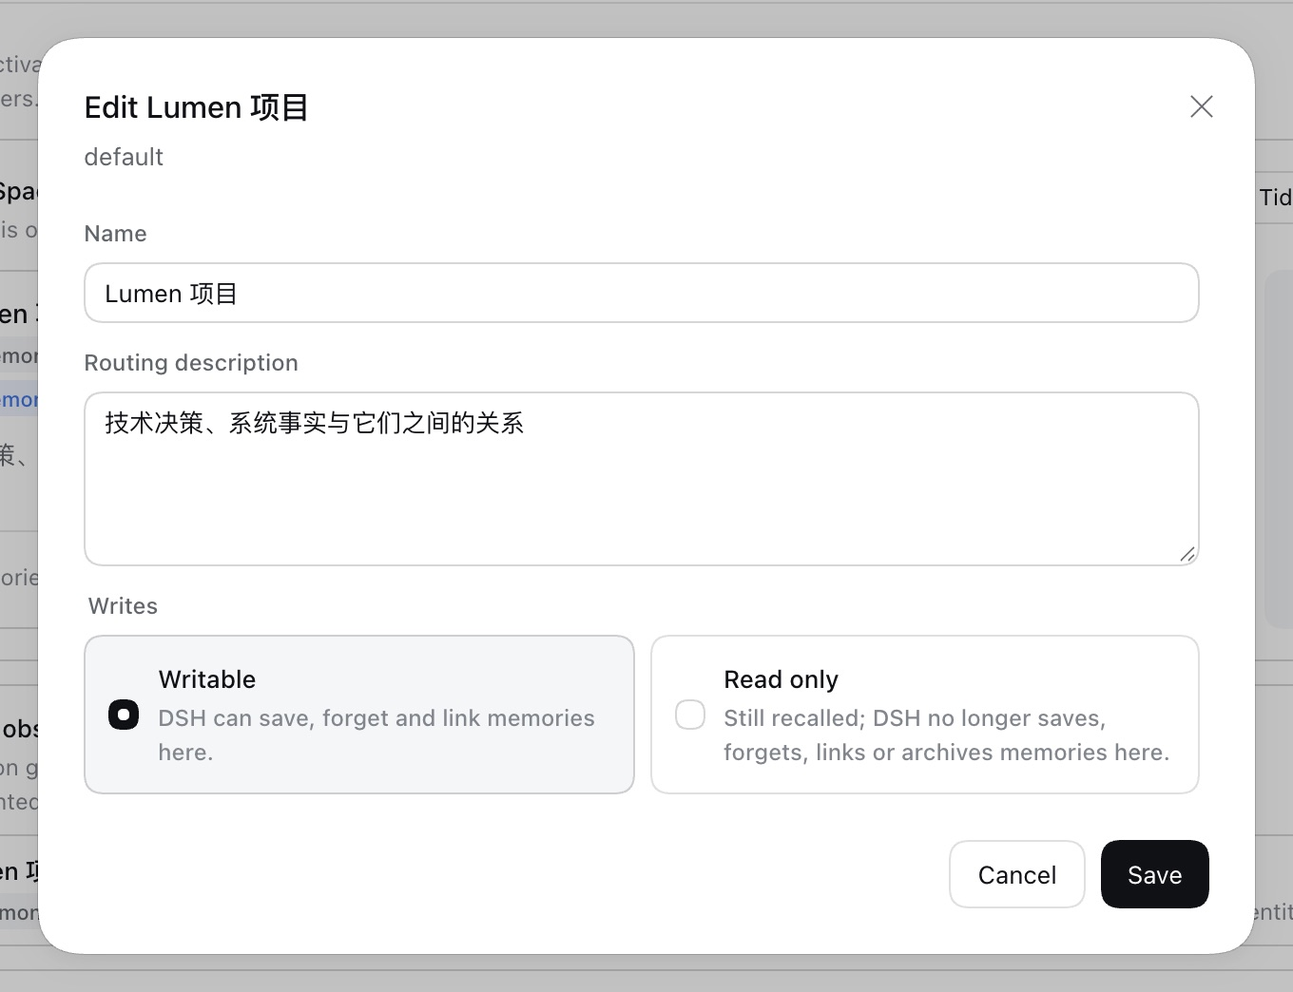
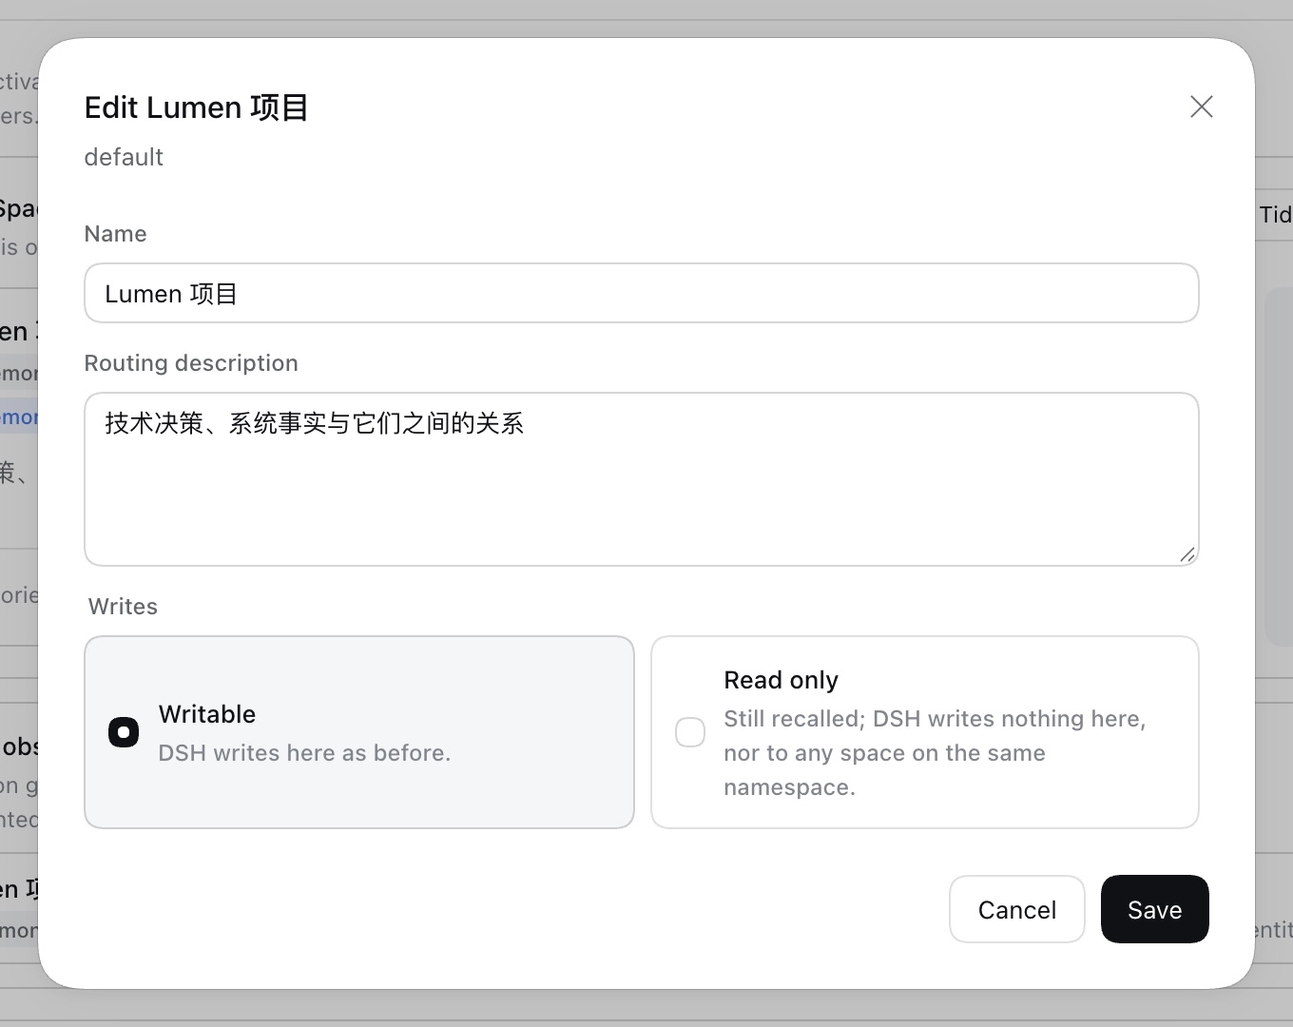
docs(pr-assets): update the read-only spaces record after review (#434)
Describes the write policy keyed by where writes land, Writable on a
space's own place, the visible fail-closed state with its reset, the
rechecks before merge imports and vector fills, and effective
capabilities. Points at the committed live Hindsight harness, records
its re-run on 3cd04d74, and replaces the branch screens captured again
after the copy and placement changes.

diff --git a/docs/pr-assets/issue-434-space-write-policy/README.md b/docs/pr-assets/issue-434-space-write-policy/README.md
@@ -15,13 +15,25 @@ Both banks use Hindsight's `chunks` extraction mode, which needs no LLM; the lab
 
 ## What changed
 
-- **An explicit choice.** The space's **Edit** dialog has **Writes**: **Writable** ("DSH can save, forget and link memories here.") or **Read only** ("Still recalled; DSH no longer saves, forgets, links or archives memories here."). The card of a read-only space shows **Read only**. The same choice is the Source management operation `body-write-policy`, `{ memoryBodyId, policy: 'writable' | 'read-only' }`, which needs confirmation as every management mutation does. The page client calls it through `setWritePolicy`, and no Agent tool reaches it.
-- **Refused before the Provider is called.** The Memory Spaces service checks the policy on disk when a write is dispatched, not when a View was composed. It checks for remember, each destination and each item of a batch, forget, link, merging into a space, deleting a Mnemon Native Store and filling its vectors. Every path the Agent, the page, the task Agent and the Host take ends there. A refusal names the space and makes no Provider call.
-- **The namespace, not the card.** A read-only entry names the namespace by its externalId, or by the settings that name it, with defaults filled in. A Mnemon Native Store is named by its id. So a space made by hand for the same bank, a reconnect, a rediscovery, switching a space on and a wildcard read are all read only too. A space whose settings move to another namespace takes that namespace's policy.
-- **No fallback.** A write that names no space goes to the one active writable space. With none, or several, it asks for one. The Source's facts offer no link or forget through read-only spaces, and its `archivableCount` leaves them out. The write scope given to Host writers leaves them out, the task Agent's target check refuses them, and its tool guard keeps the writer off them. Save to memory does not list them. With every space read only, Runtime capacity and Document archival take the local-archive path.
-- **What the model sees.** The directory a model inspects marks a read-only space `writePolicy: 'read-only'` and gives it `remember`, `link` and `forget` as `false`.
-- **Where it is kept.** The policy is kept in `state/memory-provider-write-policy.json`, beside the Provider connections. It is kept in its own file because older builds rewrite the space registry and drop fields they do not know. The file exists only while some space is read only. A file that cannot be read makes every space read only until it is fixed or removed, and recall keeps working.
-- **Spaces without the policy are unchanged.** No file is written, no field is added, and the revision encoding is the same. The errors for spaces without a policy are the same as before.
+- **An explicit choice.** The space's **Edit** dialog has **Writes**, below the Provider settings it applies to. **Writable** says "DSH writes here as before." **Read only** says "Still recalled; DSH writes nothing here, nor to any space on the same namespace." The card of a read-only space shows **Read only**. A change of the choice alone saves only the choice. When the settings change too, a choice that cannot be saved after them is reported as such. The same choice is the Source management operation `body-write-policy`, `{ memoryBodyId, policy: 'writable' | 'read-only' }`, which needs confirmation as every management mutation does. The page client calls it through `setWritePolicy`, and no Agent tool reaches it.
+- **Refused before the Provider is called.** The Memory Spaces service checks the policy on disk when a write is dispatched, not when a View was composed. It checks for remember, each destination and each item of a batch, forget, link, merging into a space, deleting a Mnemon Native Store and filling its vectors. A merge checks again right before its import, and a vector fill before each step. Every path the Agent, the page, the task Agent and the Host take ends there. A refusal names the space and makes no Provider call.
+- **Where writes land, not the card.** Each space has a key: the Provider type, then what the Provider names as the place its writes land, with its runtime defaults resolved. Built-in Providers give it through a new optional adapter method, `namespaceKey`:
+  - Hindsight: endpoint and bank.
+  - Mem0: endpoint, user and agent, a wildcard writing as `dsh-user` or `dsh`.
+  - Honcho: endpoint, workspace and both peers.
+  - RetainDB: endpoint, project and user.
+  - Supermemory: endpoint and container tag.
+  - OpenViking: endpoint, account and memory root. The actor peer is only a header and is left out.
+  - Holographic: the resolved store file.
+  - ByteRover: the resolved folder.
+  - Mnemon Native: its Store.
+
+  A Provider without the method is keyed by its service location alone, which fails closed. Two keys are the same place when one extends the other, so an OpenViking root whose owner only the server knows covers every root of its account. A space made by hand, one the persistence strategy creates, a second Provider instance on the same server, a reconnect, a rediscovery and switching a space on all gain no write.
+- **Writable applies to the space's own place.** It removes only that key, never through a wildcard or an old externalId. A space that writes where another read-only space does stays read only and says so.
+- **No fallback.** A write that names no space goes to the one active writable space. With none, or several, it asks for one. The Source's facts offer no link or forget through read-only spaces, and its `archivableCount` leaves them out. The write scope given to Host writers leaves them out, the task Agent's target check refuses them, and its tool guard keeps the writer off them. Save to memory does not list them, in a conversation or on the Memory Spaces page. With every space read only, Runtime capacity and Document archival take the local-archive path.
+- **What the model and the page see.** The directory a model inspects marks a read-only space `writePolicy: 'read-only'` and gives it `remember`, `link` and `forget` as `false`. Recall evidence and page items report the same, so no Forget is offered on its memories.
+- **Where it is kept.** The policy is kept per data directory and per Memory Spaces Source instance in `state/memory-provider-write-policy.json`, beside the Provider connections. It is a file of its own because older builds rewrite the space registry and drop fields they do not know. At most 1,000 places can be read only; past that, read only is refused rather than dropping the oldest. A file, or an entry, that cannot be read makes every space read only and recall keeps working. The directory then carries `writePolicyProblem`, a write naming no space says why, and the page shows a banner with **Reset write choices** behind a confirmation.
+- **Spaces without the policy are unchanged.** No file is written, no field is added, the revision encoding is the same, and the errors are the same as before. A Mnemon Native recall still records its reads in the Store, as everywhere.
 
 ## Result on real Hindsight
 
@@ -45,6 +57,8 @@ The same scenario ran on main and on the branch, against the same two banks, the
 | Memories in `wp434-dsh`, before → after | 4 → 5 | 2 → 4 |
 
 On the branch, each receipt from the DSH bank says `queued`, with completion `accepted`, never `committed`. Hindsight extracts in the background, and the policy does not change how such a receipt reads. `wp434-dsh` held two memories before the branch run. They came from an earlier run of the same branch scenario, whose recall ran before Hindsight had stored its writes; that run is not recorded.
+
+The live scenario is committed as `plugins/dsh-mnemon-source-memory-spaces/tests/hindsight-write-policy.live.spec.ts`. It is opt-in with `MNEMON_WRITE_POLICY_HINDSIGHT`, and its counting proxy runs inside the test. The record above was made at `e55da9e4`. After the review's fixes, the harness ran again on `3cd04d74`. The four writes aimed at the legacy bank were refused with no Hindsight request. The two writes to the DSH bank each made one `POST /memories`, with completion `accepted`. Recall read both banks. `wp434-legacy` held 4 memories before and 4 after. `wp434-dsh` went from 5 to 7.
 
 ## In the WebUI
 
@@ -85,12 +99,13 @@ On the branch, each receipt from the DSH bank says `queued`, with completion `ac
 
 ## Tests
 
-- `plugins/dsh-mnemon-source-memory-spaces/tests/write-policy.spec.ts` drives the real Source with a counting bank Provider. One test covers each write path: View remember, forget and link, and management remember, a batch, forget and link. Further tests cover these cases: a legacy id named explicitly, while the space is inactive and after it is switched on; a space made by hand for the same bank; a space whose settings move to that bank; a disconnect followed by a new mount; a policy changed after a View was composed; the default destination; no fallback; and the facts and write scope. Over Mnemon Native, the tests cover these cases: no Store-changing command for remember, a batch, forget, link, merge, vector fill or delete; a batch stopped at a destination that turned read only; an unreadable or unsupported file; a restart and another data directory; and no change without a policy.
-- `write-policy-page.spec.tsx` renders the real page against the real Source. It covers the choice, the badge, changing back, and the page's own Save to memory dialog, which offers no read-only space.
+- `plugins/dsh-mnemon-source-memory-spaces/tests/write-policy.spec.ts` drives the real Source with a counting bank Provider. One test covers each write path: View remember, forget and link, and management remember, a batch, forget and link. Further tests cover these cases: a legacy id named explicitly, while the space is inactive and after it is switched on; a space made by hand for the same bank; a space whose settings move to that bank; a disconnect followed by a new mount; a policy changed after a View was composed; the default destination; no fallback; the facts and write scope; and recall evidence and page items that report what a read-only space takes. The review's cases are tests of their own: Mem0 users and agents with wildcards, Holographic spaces made by hand or by the persistence strategy on one store, blank and relative ByteRover folders, OpenViking peers, trailing slashes and owners only the server knows, a Hindsight space moved to another bank, a second Provider instance on the same server, and the 1,000-place limit. Over Mnemon Native, the tests cover these cases: no command that writes memories or vectors for remember, a batch, forget, link, merge, vector fill or delete; a merge target and a vector fill that turn read only midway; a batch stopped at a destination that turned read only; an unreadable or unsupported file, or one with an entry it cannot read, said in the directory and a write naming no space, and reset; a restart and another data directory; and no change without a policy.
+- `write-policy-page.spec.tsx` renders the real page against the real Source. It covers the choice, a change of the choice alone saving only it, the badge, changing back, the page's own Save to memory dialog, which offers no read-only space, and the banner and confirmed reset for a file that cannot be read.
+- `hindsight-write-policy.live.spec.ts` is the live scenario above, opt-in with `MNEMON_WRITE_POLICY_HINDSIGHT`.
 - Root tests cover the rest. The layer-combination matrix gains a read-only space for MEMORY.md and Document archival through the Agent tool, the web page and the Host's own path, and for what the View offers. The task Agent's target check and tool guard are tested, the Save to memory place list leaves read-only spaces out, and **Fill in** is not offered for a read-only Native space.
 
 ```text
-pnpm --filter dsh-mnemon-source-memory-spaces exec vitest run   # 307 passed, 2 skipped
+pnpm --filter dsh-mnemon-source-memory-spaces exec vitest run   # 315 passed, 3 skipped
 pnpm exec vitest run --dir tests                                # 2,176 passed, 7 skipped
 pnpm run typecheck && pnpm --filter dsh-mnemon-source-memory-spaces run typecheck
 pnpm --filter dsh-mnemon-source-memory-spaces run build && pnpm run build

diff --git a/docs/pr-assets/issue-434-space-write-policy/README.zh-CN.md b/docs/pr-assets/issue-434-space-write-policy/README.zh-CN.md
@@ -15,13 +15,25 @@ Provider 使用 `provider-lab/` 中的 Hindsight（官方 GHCR standalone 镜像
 
 ## 改动
 
-- **明确的选择。** 空间的**编辑**对话框中新增**写入**：**可写入**（“DSH 可以在这里存入、遗忘和链接记忆。”）或**只读**（“照常召回；DSH 不再在这里存入、遗忘、链接或归档记忆。”）。只读空间的卡片上会显示**只读**。同一个选择也是 Source 管理操作 `body-write-policy`，参数为 `{ memoryBodyId, policy: 'writable' | 'read-only' }`，与所有管理变更一样需要确认。页面客户端通过 `setWritePolicy` 调用它，Agent 工具无法调用它。
-- **在调用 Provider 之前拒绝。** 记忆空间服务在写入真正发出时读取磁盘上的设置，而不是在组成 View 时读取。检查覆盖存入、批量写入中的每个目标与每一条、遗忘、链接、合并进空间、删除 Mnemon Native Store 与补齐向量。Agent、页面、任务 Agent 与 Host 的每条写入路径最终都经过这里。被拒绝的写入会写明是哪个空间，且不会调用 Provider。
-- **按命名空间，而不是按卡片。** 只读条目按 externalId 标识命名空间，或按标识命名空间的设置（已填入默认值）标识；Mnemon Native Store 按其 id 标识。因此，为同一个 bank 手动创建的空间、重新连接、重新发现、打开开关，以及通配读取，都同样只读。设置改为指向另一个命名空间的空间，采用那个命名空间的设置。
-- **不退回。** 未指定空间的写入进入唯一一个已激活且可写的空间；一个都没有或不止一个时，会要求指明空间。Source 的 facts 不再为只读空间提供链接与遗忘，`archivableCount` 也不计入它们。交给 Host 写入方的写入范围不包含它们，任务 Agent 的目标检查拒绝它们，工具守卫让写入方不碰它们；“存入记忆”也不列出它们。所有空间都只读时，运行时记忆容量维护与文档归档改走本地归档。
-- **模型看到的内容。** 模型查看的空间目录中，只读空间标为 `writePolicy: 'read-only'`，其 `remember`、`link`、`forget` 显示为 `false`。
-- **保存位置。** 设置保存在 `state/memory-provider-write-policy.json`，与 Provider 连接放在一起。单独存一个文件，是因为旧版本会重写空间注册表，并丢掉它们不认识的字段。只有存在只读空间时才有这个文件。文件无法读取时，所有空间都按只读处理，直到修复或删除该文件；召回照常。
-- **没有设置的空间不受影响。** 不写文件，不加字段，revision 编码不变；没有设置的空间，报错与以前相同。
+- **明确的选择。** 空间的**编辑**对话框中新增**写入**，位于它所作用的 Provider 设置下方：**可写入**（“DSH 照常写入这里。”）或**只读**（“照常召回；DSH 不再写入这里，也不写入同一命名空间的其他空间。”）。只读空间的卡片上会显示**只读**。只改动这一选择时，只保存这一选择；与其他设置一起改动时，如果设置已保存而选择没能保存，页面会明确说明。同一个选择也是 Source 管理操作 `body-write-policy`，参数为 `{ memoryBodyId, policy: 'writable' | 'read-only' }`，与所有管理变更一样需要确认。页面客户端通过 `setWritePolicy` 调用它，Agent 工具无法调用它。
+- **在调用 Provider 之前拒绝。** 记忆空间服务在写入真正发出时读取磁盘上的设置，而不是在组成 View 时读取。检查覆盖存入、批量写入中的每个目标与每一条、遗忘、链接、合并进空间、删除 Mnemon Native Store 与补齐向量；合并在导入前、补齐在每一步前都会再检查一次。Agent、页面、任务 Agent 与 Host 的每条写入路径最终都经过这里。被拒绝的写入会写明是哪个空间，且不会调用 Provider。
+- **按写入的落点，而不是按卡片。** 每个空间都有一个键：Provider 类型，再加上 Provider 指明的写入落点，运行时的默认值都已解析。内置 Provider 通过新增的可选适配器方法 `namespaceKey` 给出：
+  - Hindsight：地址与 bank；
+  - Mem0：地址、user 与 agent，通配符按 `dsh-user` 与 `dsh` 写入；
+  - Honcho：地址、workspace 与两个 peer；
+  - RetainDB：地址、project 与 user；
+  - Supermemory：地址与 container tag；
+  - OpenViking：地址、account 与记忆根。actor peer 只是请求头，不计入；
+  - Holographic：解析后的存储文件；
+  - ByteRover：解析后的目录；
+  - Mnemon Native：它的 Store。
+
+  没有该方法的 Provider 只按服务地址确定键，从而失败即封闭。两个键中一个是另一个的前缀时，视为同一落点，因此只有服务器才知道归属用户的 OpenViking 记忆根，会覆盖其 account 下的所有记忆根。手动创建的空间、持久化策略新建的空间、同一服务器上的第二个 Provider 实例、重新连接、重新发现以及打开开关，都不会带来写入。
+- **可写入只作用于该空间自己的落点。** 它只移除这一个键，不会经由通配符或旧的 externalId 移除别的键。如果某个空间也写入另一个只读空间的落点，它仍保持只读，并说明原因。
+- **不退回。** 未指定空间的写入进入唯一一个已激活且可写的空间；一个都没有或不止一个时，会要求指明空间。Source 的 facts 不再为只读空间提供链接与遗忘，`archivableCount` 也不计入它们。交给 Host 写入方的写入范围不包含它们，任务 Agent 的目标检查拒绝它们，工具守卫让写入方不碰它们。无论在对话中还是记忆空间页面上，“存入记忆”都不列出它们。所有空间都只读时，运行时记忆容量维护与文档归档改走本地归档。
+- **模型与页面看到的内容。** 模型查看的空间目录中，只读空间标为 `writePolicy: 'read-only'`，其 `remember`、`link`、`forget` 显示为 `false`。召回证据与页面条目也给出同样的能力，因此不会在这些记忆上提供“遗忘”。
+- **保存位置。** 设置按数据目录、按记忆空间 Source 实例保存在 `state/memory-provider-write-policy.json`，与 Provider 连接放在一起。单独存一个文件，是因为旧版本会重写空间注册表，并丢掉它们不认识的字段。最多可以有 1,000 个只读落点；超出时会拒绝设为只读，而不是丢弃最早的。文件或其中的条目无法读取时，所有空间都按只读处理，召回照常：此时目录中带有 `writePolicyProblem`，未指定空间的写入会说明原因，页面显示横幅，并在确认后提供**重置写入选择**。
+- **没有设置的空间不受影响。** 不写文件，不加字段，revision 编码不变，报错与以前相同。Mnemon Native 的召回仍会在 Store 中记录读取，这一点在所有空间都一样。
 
 ## 真实 Hindsight 上的结果
 
@@ -45,6 +57,8 @@ main 与分支对同样的两个 bank 运行同一个场景。先运行分支，
 | `wp434-dsh` 中的记忆，前 → 后 | 4 → 5 | 2 → 4 |
 
 在分支上，DSH bank 返回的每个回执都是 `queued`，完成状态为 `accepted`，不会是 `committed`。Hindsight 在后台完成提取，只读设置不改变这类回执的含义。分支运行前，`wp434-dsh` 已有两条记忆。它们来自同一分支场景更早的一次运行；那次运行的召回发生在 Hindsight 存好写入之前，因此没有记录。
+
+这个真实场景已作为 `plugins/dsh-mnemon-source-memory-spaces/tests/hindsight-write-policy.live.spec.ts` 提交。它需要通过 `MNEMON_WRITE_POLICY_HINDSIGHT` 显式开启，计数代理在测试内部运行。上面的记录基于 `e55da9e4`。按评审意见修复后，在 `3cd04d74` 上重新运行了一次：指向旧 bank 的四次写入都被拒绝，Hindsight 没有收到任何请求；写入 DSH bank 的两次各发出一个 `POST /memories`，完成状态为 `accepted`；召回两个 bank 都能读到。`wp434-legacy` 前后都是 4 条记忆，`wp434-dsh` 从 5 条变为 7 条。
 
 ## WebUI 中的表现
 
@@ -85,12 +99,13 @@ main 与分支对同样的两个 bank 运行同一个场景。先运行分支，
 
 ## 测试
 
-- `plugins/dsh-mnemon-source-memory-spaces/tests/write-policy.spec.ts` 用一个统计写入次数的 bank Provider 驱动真实的 Source。每条写入路径各有一项测试：View 的存入、遗忘与链接，以及管理操作的存入、批量写入、遗忘与链接。其余测试覆盖以下情形：显式指定旧空间（未激活时与重新打开后）；为同一 bank 手动创建的空间；设置改为指向该 bank 的空间；断开后重新挂载；View 组成后更改设置；默认目标；不退回；facts 与写入范围。在 Mnemon Native 上，测试覆盖以下情形：存入、批量写入、遗忘、链接、合并、补齐向量与删除都不运行任何修改 Store 的命令；批量写入在目标变为只读时停下；设置文件无法读取或格式不支持；重启以及另一个数据目录；没有设置时行为不变。
-- `write-policy-page.spec.tsx` 在真实 Source 上渲染真实页面，覆盖选择、卡片标记、改回可写入，以及页面自身的“存入记忆”对话框不提供只读空间。
+- `plugins/dsh-mnemon-source-memory-spaces/tests/write-policy.spec.ts` 用一个统计写入次数的 bank Provider 驱动真实的 Source。每条写入路径各有一项测试：View 的存入、遗忘与链接，以及管理操作的存入、批量写入、遗忘与链接。其余测试覆盖以下情形：显式指定旧空间（未激活时与重新打开后）；为同一 bank 手动创建的空间；设置改为指向该 bank 的空间；断开后重新挂载；View 组成后更改设置；默认目标；不退回；facts 与写入范围；召回证据与页面条目给出只读空间当前的能力。评审指出的情形各有测试：带通配符的 Mem0 user 与 agent、同一存储上手动或由持久化策略创建的 Holographic 空间、空白与相对的 ByteRover 目录、OpenViking 的 peer、末尾斜杠与只有服务器才知道归属用户的记忆根、改指向另一个 bank 的 Hindsight 空间、同一服务器上的第二个 Provider 实例，以及 1,000 个落点的上限。在 Mnemon Native 上，测试覆盖以下情形：存入、批量写入、遗忘、链接、合并、补齐向量与删除都不运行任何写入记忆或向量的命令；合并目标与补齐在中途变为只读；批量写入在目标变为只读时停下；设置文件无法读取、格式不支持或含有无法读取的条目，目录与未指定空间的写入都会说明原因，并可重置；重启以及另一个数据目录；没有设置时行为不变。
+- `write-policy-page.spec.tsx` 在真实 Source 上渲染真实页面，覆盖选择、只改动选择时只保存选择、卡片标记、改回可写入、页面自身的“存入记忆”对话框不提供只读空间，以及设置文件无法读取时的横幅与确认后的重置。
+- `hindsight-write-policy.live.spec.ts` 就是上文的真实场景，需要通过 `MNEMON_WRITE_POLICY_HINDSIGHT` 显式开启。
 - 其余由根目录测试覆盖。层组合矩阵新增只读空间：覆盖经 Agent 工具、网页与 Host 自身路径的 MEMORY.md 归档与文档归档，以及 View 提供的内容。任务 Agent 的目标检查与工具守卫也有测试；“存入记忆”的去处列表不含只读空间；只读 Native 空间不提供**补齐**。
 
 ```text
-pnpm --filter dsh-mnemon-source-memory-spaces exec vitest run   # 307 通过，2 跳过
+pnpm --filter dsh-mnemon-source-memory-spaces exec vitest run   # 315 通过，3 跳过
 pnpm exec vitest run --dir tests                                # 2,176 通过，7 跳过
 pnpm run typecheck && pnpm --filter dsh-mnemon-source-memory-spaces run typecheck
 pnpm --filter dsh-mnemon-source-memory-spaces run build && pnpm run build
